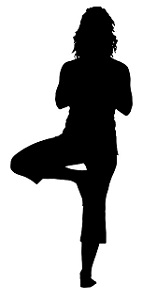
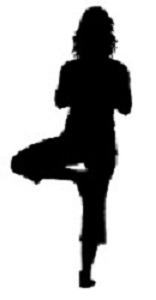
Section Follow Me

diff --git a/src/index.html b/src/index.html
@@ -127,14 +127,6 @@
         <!-- <div class="container"> -->
         <div id="slider1" class="carousel slide mb-5" data-ride="carousel">
             <div class="carousel-inner" role="listbox">
-                <ol class="carousel-indicators">
-                    <li class="active" data-target="#slider1" data-slide-to="0">
-                        <li data-target="#slider1" data-slide-to="1">
-                            <li data-target="#slider1" data-slide-to="2">
-                                <li data-target="#slider1" data-slide-to="3">
-                                    <li data-target="#slider1" data-slide-to="4">
-                                    </li>
-                </ol>
                 <div class="carousel-item active">
                     <img class="d-block img-fluid" src="img/nature_1.jpg" alt="First Slide">
                     <div class="carousel-caption d-none d-md-block text-uppercase">
@@ -297,9 +289,14 @@
     <section id="hello" class="mt-4 bg-primary">
         <div class="container">
             <div class="row">
+                <div class="mt-5 mx-auto">
+                    <h3 class="text-uppercase">Hello, There!</h3>
+                </div>
+            </div>
+            <div class="row">
                 <div class="col-md-3 my-4">
                     <div class="card card-body">
-                        <img src="img/woman_1.jpg" alt="" class="img-fluid">
+                        <img src="img/woman_1.jpg" alt="" class="img-fluid silhouette mx-auto">
                         <p class="card-text">Hi! I'm glad you are reading this! I'm a former investment banker from South California, who sold
                             everything I owned back in September 2012 and bid my old life goodbye.
                         </p>
@@ -307,7 +304,7 @@
                 </div>
                 <div class="col-md-3 my-4">
                     <div class="card card-body">
-                        <img src="img/woman_6.jpg" alt="" class="img-fluid">
+                        <img src="img/woman_2.jpg" alt="" class="img-fluid silhouette mx-auto">
                         <p class="card-text">Goodbye in favor of travelling solo around the world searching for off the beaten path destinations
                             in Asia and beyond and writing about it on this very travel blog.
                         </p>
@@ -315,7 +312,7 @@
                 </div>
                 <div class="col-md-3 my-4">
                     <div class="card card-body">
-                        <img src="img/woman_3.jpg" alt="" class="img-fluid">
+                        <img src="img/woman_3.jpg" alt="" class="img-fluid silhouette mx-auto">
                         <p class="card-text">Whether you're on a short holiday or a long-term trip, these tips will help you, photos will inspire
                             you, and the stories will awaken your wanderlust.
                         </p>
@@ -323,7 +320,7 @@
                 </div>
                 <div class="col-md-3 my-4">
                     <div class="card card-body">
-                        <img src="img/woman_7.jpg" alt="" class="img-fluid">
+                        <img src="img/woman_4.jpg" alt="" class="img-fluid silhouette mx-auto">
                         <p class="card-text">I find lesser known places by speaking with locals, taking local transportation, and immersing myself
                             in the culture. Then I show you how to do the same.
                         </p>
@@ -401,7 +398,7 @@
                             <div>
                                 <img src="img/Oceania.jpg" alt="" class="img-fluid">
                             </div>
-                            <div class="d-flex flex-column ml-2 mt-2">
+                            <div class="d-flex flex-column ml-2 mt-3">
                                 <div>4</div>
                                 <div class="font-italic">Oceania</div>
                             </div>
@@ -412,6 +409,24 @@
                 <div class="col-md-9 py-4">
                     <img src="img/map.jpg" alt="" class="img-fluid">
                 </div>
+            </div>
+        </div>
+    </section>
+
+    <!-- FOOTER -->
+    <section id="main-footer" class="mb-5">
+        <div class="container">
+            <div class="row py-4">
+                <h3 class="text-uppercase mx-auto">Follow Me</h3>
+            </div>
+
+            <div class="d-flex flex-row bg-primary justify-content-around">
+                <i class="fa fa-facebook fa-3x m-3"></i>
+                <i class="fa fa-twitter fa-3x m-3"></i>
+                <i class="fa fa-instagram fa-3x m-3"></i>
+                <i class="fa fa-google-plus fa-3x m-3"></i>
+                <i class="fa fa-pinterest fa-3x m-3"></i>
+                <i class="fa fa-youtube fa-3x m-3"></i>
             </div>
         </div>
     </section>

diff --git a/src/css/style.css b/src/css/style.css
@@ -86,6 +86,13 @@ body {
 #hello button:hover {
   color: #199ef7; }
 
+#hello h3 {
+  color: #fff; }
+
+#hello .silhouette {
+  height: 200px;
+  width: auto; }
+
 #places {
   background: #fff;
   color: #199ef7; }

diff --git a/src/scss/style.scss b/src/scss/style.scss
@@ -108,6 +108,13 @@ body {
     button:hover {
         color: $color-primary;
     }
+    h3 {
+        color: #fff;
+    }
+    .silhouette {
+        height: 200px;
+        width: auto;
+    }
 }
 
 #places {
